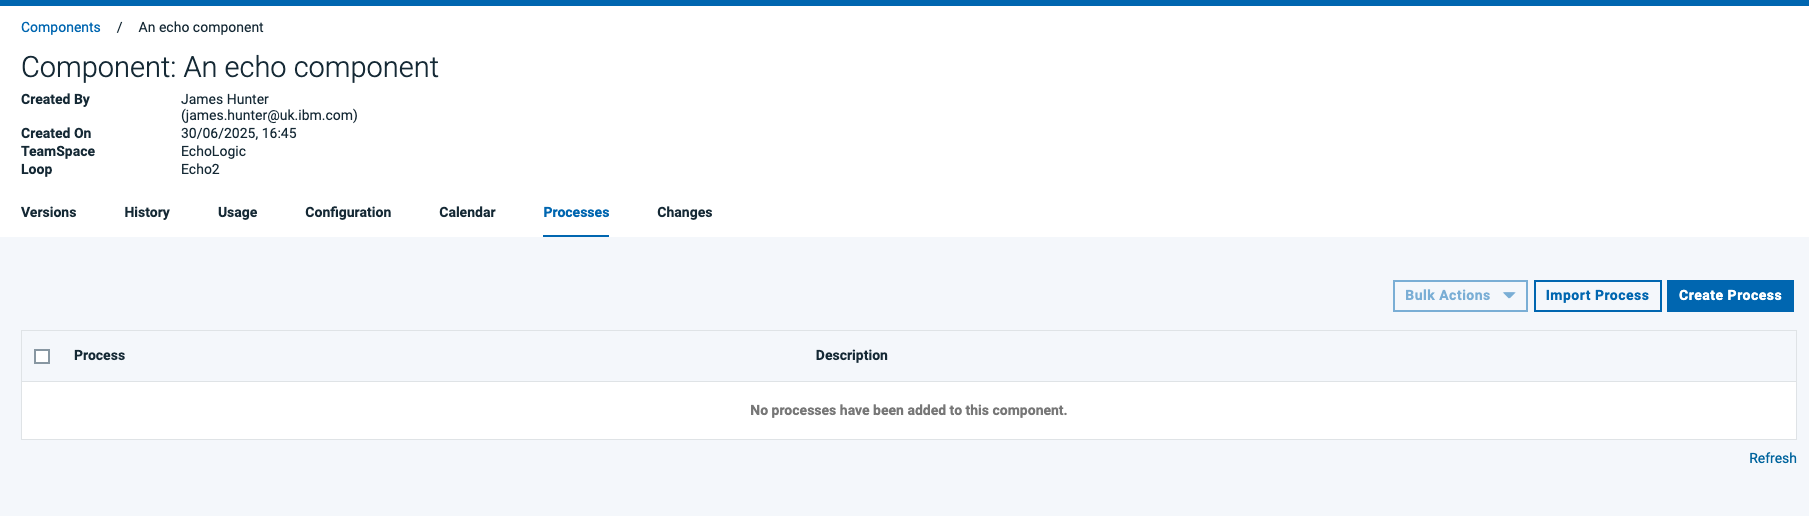
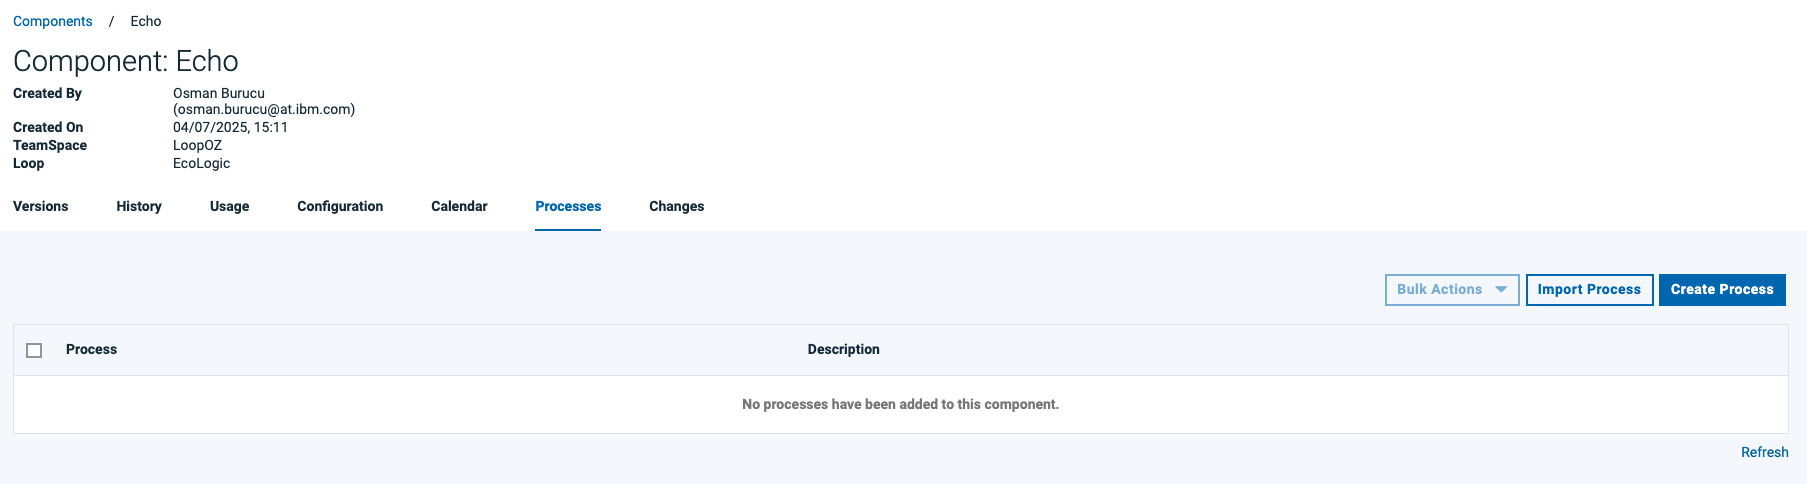
added component related steps

diff --git a/docs/deploy/index.md b/docs/deploy/index.md
@@ -57,13 +57,25 @@ Once you import the application, you would be able to see additional application
 Now, Click on your application(PizzaApp-XX) > Switch Tab to Components > Click on PizzaApp-Container-XX > Switch tab to Process > Click on "Deploy PizzaApp"
  -->
 
-## Applications
-
-TODO: talk about applications
-
 ## Components
 
 TODO: talk about components
+
+![List of components](media/DEPLOY_Components_List.png)
+
+### Create New Component
+
+- Press Create new Component Button: ![Component - Create new](media/DEPLOY_Components_CreateComponentButton.png)
+- ![Component - Create Dialog 1](media/DEPLOY_Components_CreateDialog1.png)
+- ![Component - Create Dialog 2](media/DEPLOY_Components_CreateDialog2.png)
+- ![Component - Create Dialog 3](media/DEPLOY_Components_CreateDialog3.png)
+- ![Component - Create Dialog 4](media/DEPLOY_Components_CreateDialog4.png)
+- Component successful created, first view is the Versions view
+- ![Component - Newly Created Comp first view versions ](media/DEPLOY_Components_NewCreatedComponentVersion.png)
+- have a look at the Components configuration, you can change it here if needed
+- ![Component - Newly Created Comp configuraiton view](media/DEPLOY_Components_NewCreatedComponentConfig.png)
+- have a look at the processes of the component
+- ![Component - Newly Created Comp Processes view](media/DEPLOY_Components_NewCreatedComponentProcesses.png)
 
 ## Processes
 
@@ -83,15 +95,19 @@ TODO: talk about app processes and what is the diff to other
 
 TODO: talk about component processes and what is it good fore
 
+A freshly created component does not have any processes:
+
 ![component processes](media/DEPLOY_Component_Processlist.png)
 
-### How to create a Process
+Every Component needs at least one (1) process. To create one press the Create Process Button![Create new Process Button](media/DEPLOY_Component_CreateProcessButton.png)
 
-In the Processlist click on the Create Process Button: ![Create Process Button](media/DEPLOY_AppComp_CreateProcessButton.png)
+![Component Process - Dialog](media/DEPLOY_Component_CreateProcessDialog.png)
 
-#### Process Designer
+TODO: talk about process details
 
-It will show you the process designer:
+##### Process Designer
+
+It will show you the process designer for a new process:
 
 ![Process Designer](media/DEPLOY_Component_ProcessEditor.png)
 
@@ -103,11 +119,35 @@ TODO: talk about sidebar
 
 Drag Drop a step onto the canvas.
 
-![Dragged a Step onto the canvas](media/DEPLOY_Component_ProcessEditor_StepAdded.png)
+![Dragged a Step onto the canvas](media/DEPLOY_Component_Process_AddStep.png)
 
-#### Final Process Diagram
+Configure the step:
 
-![Deploy Process Diagram Application Page](media/process_diagram.png)
+![Step properties 1](media/DEPLOY_Component_Process_Step_Properties1.png)
+![Step properties 2](media/DEPLOY_Component_Process_Step_Properties2.png)
+
+In this example the shell step requires to have some script/commands added into the shell script field:
+
+![Shell Script1](media/DEPLOY_Component_Process_Step_ShellScript1.png)
+![Shell Script2](media/DEPLOY_Component_Process_Step_ShellScript2.png)
+
+##### Final Process Diagram
+
+![Deploy Process Diagram Application Page](media/DEPLOY_Component_Process_Final.png)
+
+##### Adding Version Statuses
+
+![Process Designer - sidebar add version status](media/DEPLOY_Component_ProcessEditor_SidebarAddStatus.png)
+![process designer - step added add version status](media/DEPLOY_Component_ProcessEditor_StepAdded_AddStatus.png)
+![process designer - add version status properites](media/DEPLOY_Component_Process_Step_AddStatusProperties.png)
+
+Result in the Versionlist of the component:
+![Status added to version](media/DEPLOY_Component_VersionList_withStatus.png)
+
+## Applications
+
+TODO: talk about applications
+
 <!-- 
 Now click on edit button available on the individual process:
 
